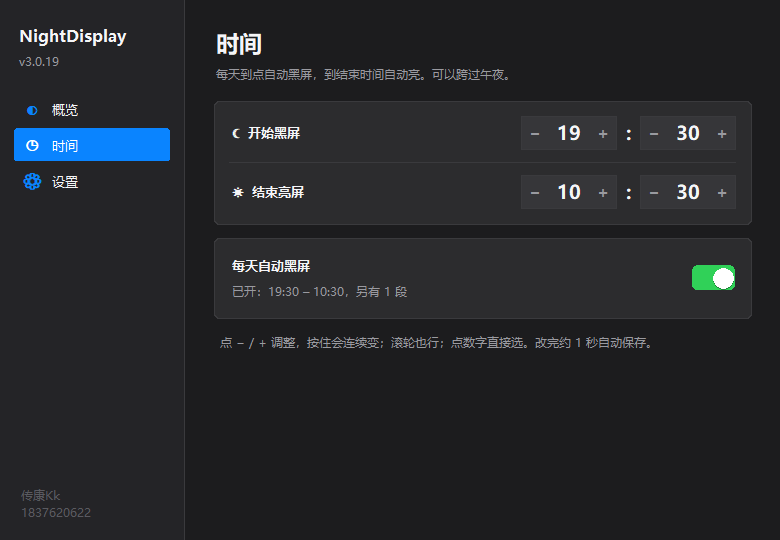
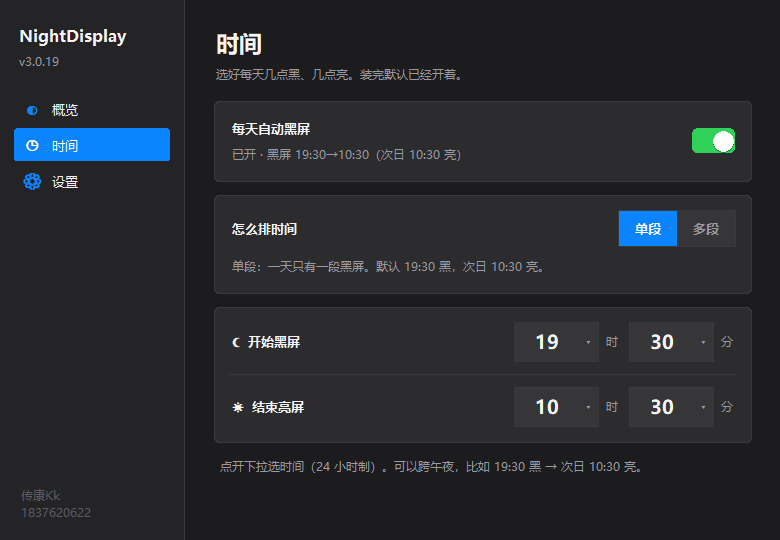
docs: 3.0.19 UI shots from green CI 42026750318 (schedule single/multi)

diff --git a/README.md b/README.md
@@ -206,7 +206,7 @@ GitHub Actions 只跑 Windows：Windows 2022 和 Windows latest 单元测试 + V
 - **时间页**：单段 / 多段切换；小时、分钟用 24 小时下拉选，不能手打；多段可单独开关，段与段之间是亮屏空隙。
 - **暂停不再改时间**：暂停后再启用，仍按已保存的 start/end，不会把到点时间推迟。
 - 关窗口进托盘 + Windows 守护任务；静默更新会先跑 cleanup_old.ps1 再 /VERYSILENT 安装。
-- README 界面图为 Windows CI 真实窗口（Actions run [42018348119](https://github.com/CKNB888/NightDisplay/actions/runs/42018348119) `ui-shots-windows-latest`）；发版前会再换成含单段/多段的最新截图。
+- README 界面图为 Windows CI 真实窗口（Actions run [42026750318](https://github.com/CKNB888/NightDisplay/actions/runs/42026750318) `ui-shots-windows-latest`）；界面图已换成含单段/多段时间页的最新 Windows CI 截图。
 - **自动检查更新（Windows）**：启动约 3 秒后查 GitHub Releases Latest；有新版只问一次「立即更新？」。确认后自动下载官方 Setup、复用 `cleanup_old.ps1` 清旧进程/注册表/残留，再 `/VERYSILENT` 静默安装并拉起新版。设置里「检查更新」同样。
 - **点 X 强制后台**：关闭窗口只进托盘；托盘起不来时不会把窗口藏死。Windows 注册 `NightDisplay_Watchdog`（每 5 分钟）：常驻进程挂了会再拉 `--tray`；托盘「退出」会写标记，守护不再拉起，直到你再次打开。
 
